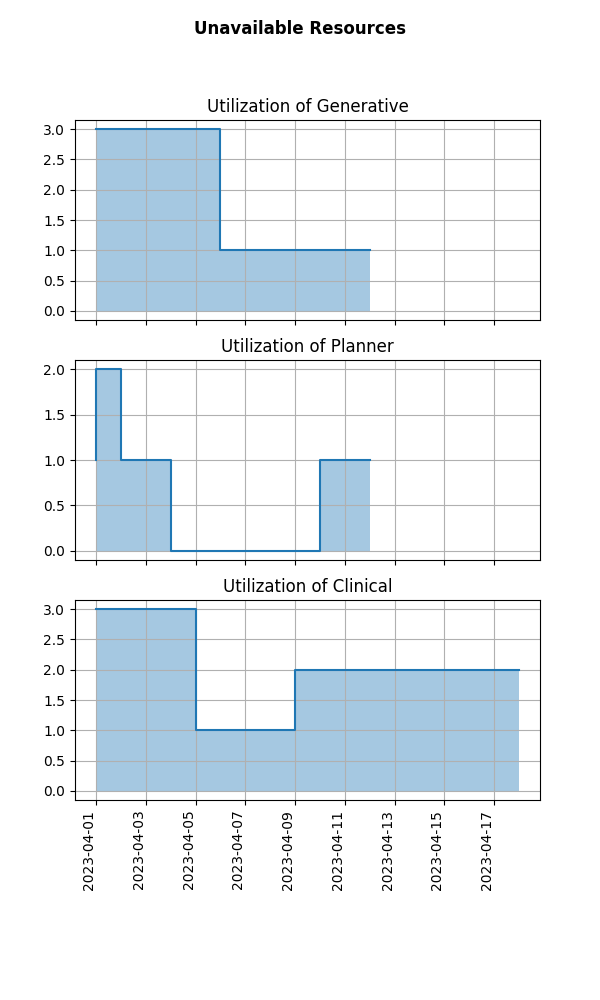
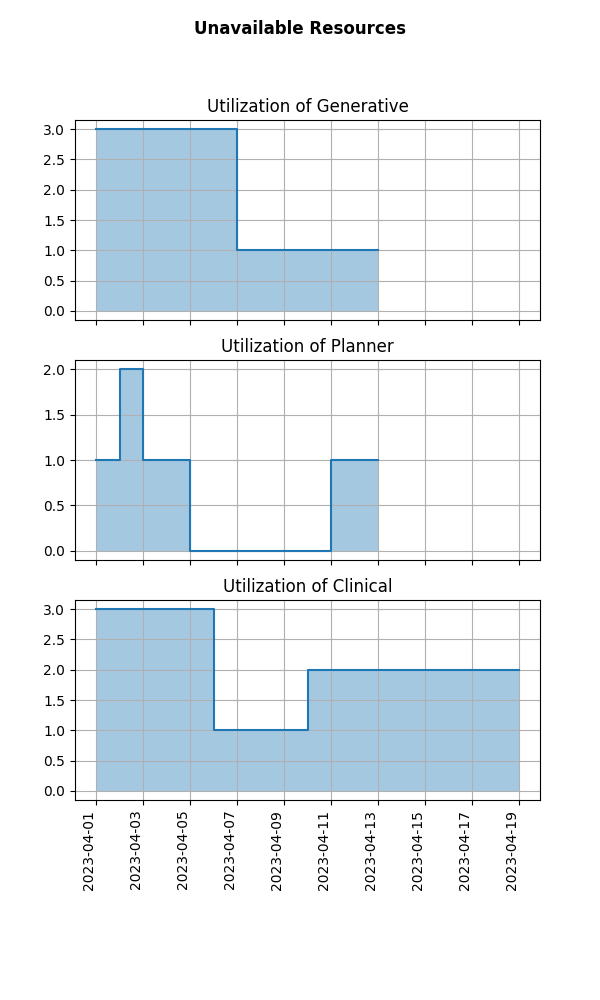
verify addboolxor constraint

diff --git a/scheduling/utils.py b/scheduling/utils.py
@@ -4,34 +4,20 @@ import yaml
 import sys
 from typing import TextIO
 import pandas as pd
+import numpy as np
 
 # Plot Resource Utilization Diagram
-def plot_utilization_new(resource_reqs: dict, datetime_0: datetime, tmax: int):
+def plot_utilization(resource_reqs: dict, datetime_0: datetime, tmax: int):
     fig, ax = plt.subplots(len(resource_reqs), 1, figsize=(6,10), sharex=True)
     fig.autofmt_xdate(rotation=90)
     for j, resource in enumerate(resource_reqs.keys()):
         y = resource_reqs[resource]
+        y = y + [y[-1]]
         x = [datetime_0 + timedelta(days=t) for t in range(len(y))]
-        ax[j].step(x, y, where="pre");
-        ax[j].fill_between(x, y, step="pre", alpha=0.4)
+        ax[j].step(x, y, where="post");
+        ax[j].fill_between(x, y, step="post", alpha=0.4)
         ax[j].grid()
         ax[j].set_title("Utilization of {}".format(resource))
-    return fig
-
-# Plot Resource Utilization Diagram
-def plot_utilization(resource_reqs: dict, datetime_0: datetime, tmax: int = 10):
-    fig, ax = plt.subplots(len(resource_reqs), 1, figsize=(6,10), sharex=True)
-    fig.autofmt_xdate(rotation=90)
-    for j, resource in enumerate(resource_reqs):
-        y = [0 for _ in range(tmax)]
-        for start, end, utilization in resource_reqs[resource]:
-            for i in range(start,end):
-                y[i+1] += utilization
-        x = [datetime_0 + timedelta(days=t) for t in range(len(y))]
-        ax[j].step(x, y, where="pre");
-        ax[j].fill_between(x, y, step="pre", alpha=0.4)
-        ax[j].grid()
-        ax[j].set_title("Utilization of Resource {}".format(resource))
     return fig
 
 # Display Project Tasks
@@ -71,7 +57,7 @@ def read_resource_input(
 
     # Plot Initial Requirements Per Resource
     res_reqs = {res:rstruct.state0 for res, rstruct in out.items()}
-    fig = plot_utilization_new(res_reqs, datetime_0, tmax)
+    fig = plot_utilization(res_reqs, datetime_0, tmax)
     fig.suptitle("Unavailable Resources", fontweight ="bold")
     plt.savefig(plotfile)
     if show_utilization_plot:

diff --git a/scheduling/one_period_model.py b/scheduling/one_period_model.py
@@ -106,7 +106,7 @@ class Model(object):
 
     def set_resource_constraints(self):
         # Enforce At Least One Resource Per Task
-        for tcase, idlist in self.resolve_multiple_res.items():
+        for _, idlist in self.resolve_multiple_res.items():
             self.model.AddBoolXOr(*idlist)
         # Disjunctive Constraint: Enforce Resource Capacity Limit Over All Intervals
         for res in self.resources.values():
@@ -184,6 +184,9 @@ if __name__ == "__main__":
     mod.collect_results()
     mod.project_report()
 
-    print(pd.DataFrame(mod.tograph))
+    for pname, task in mod.resolve_multiple_res:
+        print(pname, task, [mod.solver.Value(dv) for dv in mod.resolve_multiple_res[pname, task]])
+        print(pname, task, mod.task_resource_options[task])
+
 
 

diff --git a/scheduling/scheduling_RD_report.md b/scheduling/scheduling_RD_report.md
@@ -28,8 +28,8 @@
 | :------      |   ------------: |     ----------: |
 | longasap     |               4 |               1 |
 | long         |               3 |               1 |
-| regsize      |               2 |               0 |
-| short        |               2 |               0 |
+| regsize      |               2 |             0.5 |
+| short        |               2 |             0.1 |
 
 
 
